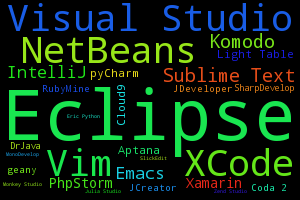
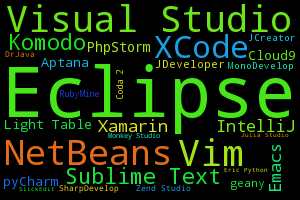
2 decimals

diff --git a/IDE.html b/IDE.html
@@ -134,56 +134,63 @@ country["FR"]="France"
 function refreshTop() {        
 cloud = "All.png"
 table = "<!-- begin section All-->\
-<td class=center>1</td><td class=center></td><td>Eclipse</td><td class=right>30.6 %</td><td class=\"right optCol\">-1.8 %</td></tr>\
-<tr><td class=center>2</td><td class=center></td><td>Visual Studio</td><td class=right>24.3 %</td><td class=\"right optCol\">-0.5 %</td></tr>\
-<tr><td class=center>3</td><td class=center></td><td>Vim</td><td class=right>8.3 %</td><td class=\"right optCol\">-0.0 %</td></tr>\
-<tr><td class=center>4</td><td class=center></td><td>NetBeans</td><td class=right>7.4 %</td><td class=\"right optCol\">-0.6 %</td></tr>\
-<tr><td class=center>5</td><td class=center></td><td>XCode</td><td class=right>7.0 %</td><td class=\"right optCol\">-0.1 %</td></tr>\
-<tr><td class=center>6</td><td class=center></td><td>Sublime Text</td><td class=right>4.7 %</td><td class=\"right optCol\">+0.4 %</td></tr>\
-<tr><td class=center>7</td><td class=center></td><td>Komodo</td><td class=right>3.8 %</td><td class=\"right optCol\">+0.3 %</td></tr>\
-<tr><td class=center>8</td><td class=center><image src=Up.png></td><td>IntelliJ</td><td class=right>3.2 %</td><td class=\"right optCol\">+0.7 %</td></tr>\
-<tr><td class=center>9</td><td class=center><image src=Down.png></td><td>Emacs</td><td class=right>2.3 %</td><td class=\"right optCol\">-0.3 %</td></tr>\
-<tr><td class=center>10</td><td class=center><image src=Up.png></td><td>Xamarin</td><td class=right>1.9 %</td><td class=\"right optCol\">+0.9 %</td></tr>\
-<tr><td class=center>11</td><td class=center><image src=Up.png></td><td>PhpStorm</td><td class=right>1.4 %</td><td class=\"right optCol\">+0.5 %</td></tr>\
-<tr><td class=center>12</td><td class=center><image src=Down.png><image src=Down.png></td><td>Light Table</td><td class=right>1.2 %</td><td class=\"right optCol\">+0.1 %</td></tr>\
-<tr><td class=center>13</td><td class=center><image src=Up.png></td><td>pyCharm</td><td class=right>0.9 %</td><td class=\"right optCol\">+0.4 %</td></tr>\
-<tr><td class=center>14</td><td class=center><image src=Up.png></td><td>Cloud9</td><td class=right>0.9 %</td><td class=\"right optCol\">+0.4 %</td></tr>\
-<tr><td class=center>15</td><td class=center><image src=Down.png><image src=Down.png></td><td>Aptana</td><td class=right>0.6 %</td><td class=\"right optCol\">-0.2 %</td></tr>\
-<tr><td class=center>16</td><td class=center></td><td>JDeveloper</td><td class=right>0.4 %</td><td class=\"right optCol\">-0.1 %</td></tr>\
-<tr><td class=center>17</td><td class=center></td><td>geany</td><td class=right>0.4 %</td><td class=\"right optCol\">-0.0 %</td></tr>\
-<tr><td class=center>18</td><td class=center></td><td>JCreator</td><td class=right>0.2 %</td><td class=\"right optCol\">-0.1 %</td></tr>\
-<tr><td class=center>19</td><td class=center></td><td>RubyMine</td><td class=right>0.2 %</td><td class=\"right optCol\">-0.0 %</td></tr>\
-<tr><td class=center>20</td><td class=center></td><td>Coda 2</td><td class=right>0.1 %</td><td class=\"right optCol\">-0.1 %</td></tr>\
-<tr><td class=center>21</td><td class=center></td><td>SharpDevelop</td><td class=right>0.1 %</td><td class=\"right optCol\">-0.0 %</td>\
+<td class=center>1</td><td class=center></td><td>Eclipse</td><td class=right>30.39 %</td><td class=\"right optCol\">-1.7 %</td></tr>\
+<tr><td class=center>2</td><td class=center></td><td>Visual Studio</td><td class=right>24.09 %</td><td class=\"right optCol\">-0.4 %</td></tr>\
+<tr><td class=center>3</td><td class=center></td><td>Vim</td><td class=right>8.29 %</td><td class=\"right optCol\">+0.1 %</td></tr>\
+<tr><td class=center>4</td><td class=center></td><td>NetBeans</td><td class=right>7.33 %</td><td class=\"right optCol\">-0.5 %</td></tr>\
+<tr><td class=center>5</td><td class=center></td><td>XCode</td><td class=right>6.92 %</td><td class=\"right optCol\">-0.1 %</td></tr>\
+<tr><td class=center>6</td><td class=center></td><td>Sublime Text</td><td class=right>4.71 %</td><td class=\"right optCol\">+0.4 %</td></tr>\
+<tr><td class=center>7</td><td class=center></td><td>Komodo</td><td class=right>3.76 %</td><td class=\"right optCol\">+0.3 %</td></tr>\
+<tr><td class=center>8</td><td class=center><image src=Up.png></td><td>IntelliJ</td><td class=right>3.14 %</td><td class=\"right optCol\">+0.7 %</td></tr>\
+<tr><td class=center>9</td><td class=center><image src=Down.png></td><td>Emacs</td><td class=right>2.33 %</td><td class=\"right optCol\">-0.3 %</td></tr>\
+<tr><td class=center>10</td><td class=center><image src=Up.png></td><td>Xamarin</td><td class=right>1.87 %</td><td class=\"right optCol\">+0.9 %</td></tr>\
+<tr><td class=center>11</td><td class=center><image src=Up.png></td><td>PhpStorm</td><td class=right>1.37 %</td><td class=\"right optCol\">+0.5 %</td></tr>\
+<tr><td class=center>12</td><td class=center><image src=Down.png><image src=Down.png></td><td>Light Table</td><td class=right>1.23 %</td><td class=\"right optCol\">+0.1 %</td></tr>\
+<tr><td class=center>13</td><td class=center><image src=Up.png></td><td>pyCharm</td><td class=right>0.93 %</td><td class=\"right optCol\">+0.3 %</td></tr>\
+<tr><td class=center>14</td><td class=center><image src=Up.png></td><td>Cloud9</td><td class=right>0.86 %</td><td class=\"right optCol\">+0.4 %</td></tr>\
+<tr><td class=center>15</td><td class=center><image src=Down.png><image src=Down.png></td><td>Aptana</td><td class=right>0.64 %</td><td class=\"right optCol\">-0.2 %</td></tr>\
+<tr><td class=center>16</td><td class=center></td><td>JDeveloper</td><td class=right>0.39 %</td><td class=\"right optCol\">-0.0 %</td></tr>\
+<tr><td class=center>17</td><td class=center></td><td>geany</td><td class=right>0.37 %</td><td class=\"right optCol\">-0.0 %</td></tr>\
+<tr><td class=center>18</td><td class=center></td><td>MonoDevelop</td><td class=right>0.3 %</td><td class=\"right optCol\">-0.0 %</td></tr>\
+<tr><td class=center>19</td><td class=center></td><td>JCreator</td><td class=right>0.21 %</td><td class=\"right optCol\">-0.0 %</td></tr>\
+<tr><td class=center>20</td><td class=center></td><td>RubyMine</td><td class=right>0.21 %</td><td class=\"right optCol\">-0.0 %</td></tr>\
+<tr><td class=center>21</td><td class=center><image src=Up.png></td><td>Coda 2</td><td class=right>0.14 %</td><td class=\"right optCol\">-0.1 %</td></tr>\
+<tr><td class=center>22</td><td class=center><image src=Down.png></td><td>Zend Studio</td><td class=right>0.13 %</td><td class=\"right optCol\">-0.1 %</td></tr>\
+<tr><td class=center>23</td><td class=center></td><td>SharpDevelop</td><td class=right>0.12 %</td><td class=\"right optCol\">-0.0 %</td></tr>\
+<tr><td class=center>24</td><td class=center><image src=Up.png><image src=Up.png></td><td>DrJava</td><td class=right>0.06 %</td><td class=\"right optCol\">-0.0 %</td></tr>\
+<tr><td class=center>25</td><td class=center><image src=Down.png></td><td>Monkey Studio</td><td class=right>0.06 %</td><td class=\"right optCol\">-0.0 %</td></tr>\
+<tr><td class=center>26</td><td class=center><image src=Up.png><image src=Up.png></td><td>Julia Studio</td><td class=right>0.06 %</td><td class=\"right optCol\">-0.0 %</td></tr>\
+<tr><td class=center>27</td><td class=center></td><td>Eric Python</td><td class=right>0.05 %</td><td class=\"right optCol\">-0.0 %</td></tr>\
+<tr><td class=center>28</td><td class=center><image src=Down.png><image src=Down.png><image src=Down.png></td><td>SlickEdit</td><td class=right>0.05 %</td><td class=\"right optCol\">-0.0 %</td>\
 <!-- end section All-->\
 ";
 if (getUrlParameter('country') == "US") {
 cloud = "US.png"
 table = "<!-- begin section US-->\
-<td class=center>1</td><td class=center></td><td>Eclipse</td><td class=right>29.3 %</td><td class=\"right optCol\">-1.0 %</td></tr>\
-<tr><td class=center>2</td><td class=center></td><td>Visual Studio</td><td class=right>22.0 %</td><td class=\"right optCol\">-0.7 %</td></tr>\
-<tr><td class=center>3</td><td class=center></td><td>Vim</td><td class=right>9.2 %</td><td class=\"right optCol\">-0.1 %</td></tr>\
-<tr><td class=center>4</td><td class=center></td><td>XCode</td><td class=right>8.6 %</td><td class=\"right optCol\">+0.3 %</td></tr>\
-<tr><td class=center>5</td><td class=center></td><td>Sublime Text</td><td class=right>5.1 %</td><td class=\"right optCol\">+0.2 %</td></tr>\
-<tr><td class=center>6</td><td class=center></td><td>Komodo</td><td class=right>4.4 %</td><td class=\"right optCol\">-0.3 %</td></tr>\
-<tr><td class=center>7</td><td class=center><image src=Up.png><image src=Up.png></td><td>IntelliJ</td><td class=right>4.0 %</td><td class=\"right optCol\">+0.9 %</td></tr>\
-<tr><td class=center>8</td><td class=center><image src=Down.png></td><td>Emacs</td><td class=right>3.6 %</td><td class=\"right optCol\">-0.3 %</td></tr>\
-<tr><td class=center>9</td><td class=center><image src=Down.png></td><td>NetBeans</td><td class=right>3.5 %</td><td class=\"right optCol\">-0.5 %</td></tr>\
-<tr><td class=center>10</td><td class=center></td><td>Light Table</td><td class=right>2.9 %</td><td class=\"right optCol\">-0.1 %</td></tr>\
-<tr><td class=center>11</td><td class=center></td><td>Xamarin</td><td class=right>1.9 %</td><td class=\"right optCol\">+1.0 %</td></tr>\
-<tr><td class=center>12</td><td class=center><image src=Up.png><image src=Up.png></td><td>pyCharm</td><td class=right>1.3 %</td><td class=\"right optCol\">+0.6 %</td></tr>\
-<tr><td class=center>13</td><td class=center><image src=Down.png></td><td>Cloud9</td><td class=right>1.0 %</td><td class=\"right optCol\">-0.0 %</td></tr>\
-<tr><td class=center>14</td><td class=center><image src=Up.png></td><td>PhpStorm</td><td class=right>0.8 %</td><td class=\"right optCol\">+0.2 %</td></tr>\
-<tr><td class=center>15</td><td class=center><image src=Down.png><image src=Down.png></td><td>Aptana</td><td class=right>0.5 %</td><td class=\"right optCol\">-0.2 %</td></tr>\
-<tr><td class=center>16</td><td class=center></td><td>JDeveloper</td><td class=right>0.4 %</td><td class=\"right optCol\">-0.0 %</td></tr>\
-<tr><td class=center>17</td><td class=center></td><td>RubyMine</td><td class=right>0.3 %</td><td class=\"right optCol\">-0.0 %</td></tr>\
-<tr><td class=center>18</td><td class=center><image src=Up.png><image src=Up.png><image src=Up.png></td><td>MonoDevelop</td><td class=right>0.2 %</td><td class=\"right optCol\">+0.1 %</td></tr>\
-<tr><td class=center>19</td><td class=center><image src=Down.png></td><td>geany</td><td class=right>0.2 %</td><td class=\"right optCol\">-0.0 %</td></tr>\
-<tr><td class=center>20</td><td class=center><image src=Down.png></td><td>JCreator</td><td class=right>0.2 %</td><td class=\"right optCol\">-0.0 %</td></tr>\
-<tr><td class=center>21</td><td class=center><image src=Down.png></td><td>Coda 2</td><td class=right>0.1 %</td><td class=\"right optCol\">-0.1 %</td></tr>\
-<tr><td class=center>22</td><td class=center></td><td>DrJava</td><td class=right>0.1 %</td><td class=\"right optCol\">-0.0 %</td></tr>\
-<tr><td class=center>23</td><td class=center><image src=Up.png></td><td>SlickEdit</td><td class=right>0.1 %</td><td class=\"right optCol\">-0.0 %</td></tr>\
-<tr><td class=center>24</td><td class=center><image src=Down.png></td><td>Monkey Studio</td><td class=right>0.0 %</td><td class=\"right optCol\">-0.1 %</td>\
+<td class=center>1</td><td class=center></td><td>Eclipse</td><td class=right>29.26 %</td><td class=\"right optCol\">-0.9 %</td></tr>\
+<tr><td class=center>2</td><td class=center></td><td>Visual Studio</td><td class=right>21.97 %</td><td class=\"right optCol\">-0.6 %</td></tr>\
+<tr><td class=center>3</td><td class=center></td><td>Vim</td><td class=right>9.19 %</td><td class=\"right optCol\">-0.0 %</td></tr>\
+<tr><td class=center>4</td><td class=center></td><td>XCode</td><td class=right>8.61 %</td><td class=\"right optCol\">+0.4 %</td></tr>\
+<tr><td class=center>5</td><td class=center></td><td>Sublime Text</td><td class=right>5.06 %</td><td class=\"right optCol\">+0.2 %</td></tr>\
+<tr><td class=center>6</td><td class=center></td><td>Komodo</td><td class=right>4.42 %</td><td class=\"right optCol\">-0.3 %</td></tr>\
+<tr><td class=center>7</td><td class=center><image src=Up.png><image src=Up.png></td><td>IntelliJ</td><td class=right>4.0 %</td><td class=\"right optCol\">+1.0 %</td></tr>\
+<tr><td class=center>8</td><td class=center><image src=Down.png></td><td>Emacs</td><td class=right>3.59 %</td><td class=\"right optCol\">-0.2 %</td></tr>\
+<tr><td class=center>9</td><td class=center><image src=Down.png></td><td>NetBeans</td><td class=right>3.48 %</td><td class=\"right optCol\">-0.5 %</td></tr>\
+<tr><td class=center>10</td><td class=center></td><td>Light Table</td><td class=right>2.93 %</td><td class=\"right optCol\">-0.1 %</td></tr>\
+<tr><td class=center>11</td><td class=center></td><td>Xamarin</td><td class=right>1.93 %</td><td class=\"right optCol\">+1.0 %</td></tr>\
+<tr><td class=center>12</td><td class=center><image src=Up.png><image src=Up.png></td><td>pyCharm</td><td class=right>1.27 %</td><td class=\"right optCol\">+0.6 %</td></tr>\
+<tr><td class=center>13</td><td class=center><image src=Down.png></td><td>Cloud9</td><td class=right>1.04 %</td><td class=\"right optCol\">-0.0 %</td></tr>\
+<tr><td class=center>14</td><td class=center><image src=Up.png></td><td>PhpStorm</td><td class=right>0.81 %</td><td class=\"right optCol\">+0.2 %</td></tr>\
+<tr><td class=center>15</td><td class=center><image src=Down.png><image src=Down.png></td><td>Aptana</td><td class=right>0.52 %</td><td class=\"right optCol\">-0.2 %</td></tr>\
+<tr><td class=center>16</td><td class=center></td><td>JDeveloper</td><td class=right>0.41 %</td><td class=\"right optCol\">-0.0 %</td></tr>\
+<tr><td class=center>17</td><td class=center></td><td>RubyMine</td><td class=right>0.34 %</td><td class=\"right optCol\">-0.0 %</td></tr>\
+<tr><td class=center>18</td><td class=center></td><td>MonoDevelop</td><td class=right>0.29 %</td><td class=\"right optCol\">-0.0 %</td></tr>\
+<tr><td class=center>19</td><td class=center></td><td>geany</td><td class=right>0.22 %</td><td class=\"right optCol\">-0.0 %</td></tr>\
+<tr><td class=center>20</td><td class=center></td><td>JCreator</td><td class=right>0.22 %</td><td class=\"right optCol\">-0.0 %</td></tr>\
+<tr><td class=center>21</td><td class=center></td><td>Coda 2</td><td class=right>0.14 %</td><td class=\"right optCol\">-0.1 %</td></tr>\
+<tr><td class=center>22</td><td class=center></td><td>DrJava</td><td class=right>0.14 %</td><td class=\"right optCol\">-0.0 %</td></tr>\
+<tr><td class=center>23</td><td class=center><image src=Up.png></td><td>SlickEdit</td><td class=right>0.08 %</td><td class=\"right optCol\">-0.1 %</td></tr>\
+<tr><td class=center>24</td><td class=center><image src=Down.png></td><td>Monkey Studio</td><td class=right>0.07 %</td><td class=\"right optCol\">-0.1 %</td>\
 <!-- end section US-->\
 ";
 }
@@ -443,8 +450,8 @@ document.getElementById("cloud").src="IDE/"+cloud;
 
 <script>
 $.ajaxSetup({async:false});
-if (getUrlParameter('country') == "") {$.getScript("IDE/All.js?t=axbAll769Allbxa")}
-if (getUrlParameter('country') == "US") {$.getScript("IDE/US.js?t=axbUS8741USbxa")}
+if (getUrlParameter('country') == "") {$.getScript("IDE/All.js?t=axbAll4875Allbxa")}
+if (getUrlParameter('country') == "US") {$.getScript("IDE/US.js?t=axbUS8461USbxa")}
 if (getUrlParameter('country') == "DE") {$.getScript("IDE/DE.js?t=axbDE5123DEbxa")}
 if (getUrlParameter('country') == "IN") {$.getScript("IDE/IN.js?t=axbIN8342INbxa")}
 if (getUrlParameter('country') == "GB") {$.getScript("IDE/GB.js?t=axbGB1860GBbxa")}

diff --git a/IDE/All.js b/IDE/All.js
@@ -1,7 +1,7 @@
     // data
 // begin Top All
 TopPlusMinus = [2,2,20]
-PlusMinus = [-0.133366666667,0.0472833333333]
+PlusMinus = [-0.130216666667,0.0469666666667]
 // end Top All
 graphData = [
 ['Date', // begin section languages
@@ -24,25 +24,25 @@ graphData = [
 [new Date(2008,1,1), 0.258,0.445,0.011,0.089,0.061,0.015,0.021,0.051,0.01,0.0,0.0,0.002,0.013,0.0,0.002,0.0,0.011,0.0,0.005,0.0,0.0,0.0,0.0,0.006,0.0,0.0,0.0,0.0],
 [new Date(2008,5,1), 0.274,0.424,0.011,0.098,0.059,0.017,0.024,0.048,0.009,0.0,0.0,0.002,0.013,0.0,0.002,0.0,0.01,0.0,0.004,0.0,0.0,0.0,0.0,0.006,0.0,0.0,0.0,0.0],
 [new Date(2008,9,1), 0.268,0.426,0.01,0.097,0.062,0.019,0.028,0.047,0.009,0.0,0.0,0.002,0.013,0.0,0.002,0.0,0.009,0.0,0.004,0.0,0.0,0.0,0.0,0.006,0.0,0.0,0.0,0.0],
-[new Date(2009,1,1), 0.264,0.425,0.009,0.1,0.062,0.021,0.025,0.046,0.009,0.0,0.0,0.002,0.014,0.0,0.003,0.0,0.009,0.0,0.004,0.0,0.0,0.0,0.0,0.007,0.0,0.0,0.0,0.0],
-[new Date(2009,5,1), 0.259,0.423,0.009,0.102,0.063,0.025,0.031,0.043,0.008,0.0,0.0,0.002,0.015,0.0,0.003,0.0,0.008,0.0,0.004,0.0,0.0,0.001,0.0,0.006,0.0,0.0,0.0,0.0],
-[new Date(2009,9,1), 0.25,0.435,0.009,0.1,0.063,0.029,0.029,0.041,0.008,0.0,0.0,0.002,0.014,0.0,0.003,0.0,0.007,0.0,0.004,0.0,0.0,0.001,0.0,0.006,0.0,0.0,0.0,0.0],
-[new Date(2010,1,1), 0.251,0.439,0.008,0.096,0.063,0.031,0.026,0.039,0.009,0.0,0.0,0.002,0.014,0.0,0.003,0.0,0.007,0.0,0.003,0.0,0.0,0.001,0.0,0.007,0.0,0.0,0.0,0.0],
-[new Date(2010,5,1), 0.252,0.457,0.007,0.091,0.06,0.031,0.027,0.034,0.008,0.0,0.0,0.001,0.011,0.0,0.003,0.0,0.006,0.0,0.003,0.001,0.0,0.001,0.0,0.006,0.0,0.0,0.0,0.0],
-[new Date(2010,9,1), 0.228,0.508,0.006,0.078,0.056,0.037,0.023,0.029,0.007,0.0,0.001,0.001,0.01,0.0,0.002,0.0,0.005,0.001,0.003,0.001,0.0,0.001,0.0,0.005,0.0,0.0,0.0,0.0],
-[new Date(2011,1,1), 0.236,0.446,0.006,0.089,0.066,0.05,0.027,0.034,0.009,0.0,0.001,0.002,0.011,0.001,0.003,0.0,0.006,0.001,0.003,0.001,0.0,0.001,0.0,0.007,0.0,0.0,0.0,0.0],
-[new Date(2011,5,1), 0.241,0.404,0.007,0.094,0.073,0.065,0.031,0.035,0.011,0.0,0.002,0.002,0.012,0.001,0.004,0.0,0.005,0.001,0.002,0.001,0.0,0.002,0.0,0.007,0.0,0.0,0.0,0.0],
-[new Date(2011,9,1), 0.238,0.391,0.007,0.093,0.077,0.077,0.032,0.033,0.011,0.001,0.002,0.003,0.013,0.002,0.004,0.0,0.005,0.001,0.002,0.003,0.0,0.002,0.0,0.007,0.0,0.0,0.0,0.0],
-[new Date(2012,1,1), 0.23,0.379,0.006,0.089,0.079,0.083,0.042,0.032,0.012,0.001,0.003,0.003,0.012,0.002,0.004,0.0,0.005,0.001,0.002,0.007,0.0,0.001,0.0,0.008,0.0,0.0,0.0,0.0],
-[new Date(2012,5,1), 0.227,0.383,0.006,0.088,0.078,0.083,0.035,0.031,0.013,0.001,0.004,0.003,0.012,0.002,0.004,0.0,0.004,0.002,0.002,0.014,0.0,0.002,0.0,0.008,0.0,0.0,0.0,0.0],
-[new Date(2012,9,1), 0.23,0.373,0.005,0.085,0.08,0.084,0.032,0.03,0.013,0.001,0.005,0.003,0.012,0.002,0.004,0.0,0.004,0.003,0.002,0.021,0.0,0.002,0.0,0.009,0.0,0.0,0.0,0.0],
-[new Date(2013,1,1), 0.243,0.355,0.005,0.083,0.081,0.077,0.034,0.029,0.016,0.002,0.006,0.003,0.011,0.003,0.004,0.0,0.004,0.003,0.002,0.029,0.0,0.002,0.0,0.01,0.0,0.0,0.0,0.0],
-[new Date(2013,5,1), 0.241,0.34,0.005,0.083,0.083,0.071,0.039,0.029,0.02,0.005,0.007,0.003,0.011,0.003,0.004,0.0,0.003,0.002,0.002,0.035,0.0,0.002,0.0,0.01,0.0,0.0,0.0,0.0],
-[new Date(2013,9,1), 0.241,0.328,0.005,0.081,0.087,0.072,0.037,0.027,0.022,0.008,0.008,0.004,0.01,0.004,0.004,0.0,0.003,0.002,0.002,0.043,0.0,0.002,0.0,0.009,0.0,0.0,0.0,0.0],
-[new Date(2014,1,1), 0.247,0.318,0.005,0.08,0.086,0.073,0.036,0.026,0.024,0.01,0.01,0.005,0.009,0.005,0.004,0.0,0.003,0.002,0.002,0.044,0.0,0.002,0.0,0.011,0.0,0.0,0.0,0.0],
-[new Date(2014,5,1), 0.238,0.33,0.004,0.077,0.083,0.069,0.036,0.025,0.027,0.013,0.011,0.006,0.008,0.006,0.004,0.0,0.002,0.002,0.001,0.045,0.0,0.002,0.0,0.011,0.0,0.0,0.0,0.0],
-[new Date(2014,9,1), 0.236,0.325,0.004,0.076,0.084,0.07,0.037,0.023,0.028,0.016,0.012,0.007,0.007,0.007,0.004,0.0,0.002,0.002,0.001,0.046,0.0,0.002,0.0,0.01,0.0,0.0,0.0,0.0],
-[new Date(2015,1,1), 0.243,0.306,0.004,0.074,0.084,0.07,0.038,0.023,0.032,0.019,0.014,0.009,0.006,0.009,0.004,0.0,0.002,0.001,0.001,0.047,0.0,0.002,0.0,0.012,0.0,0.0,0.0,0.0]
+[new Date(2009,1,1), 0.263,0.424,0.009,0.1,0.062,0.021,0.025,0.046,0.009,0.0,0.0,0.002,0.014,0.0,0.003,0.001,0.009,0.0,0.004,0.0,0.002,0.0,0.0,0.007,0.0,0.0,0.0,0.0],
+[new Date(2009,5,1), 0.257,0.42,0.009,0.101,0.062,0.025,0.03,0.043,0.008,0.0,0.0,0.002,0.015,0.0,0.003,0.002,0.008,0.0,0.004,0.0,0.005,0.001,0.001,0.006,0.0,0.0,0.0,0.0],
+[new Date(2009,9,1), 0.247,0.43,0.009,0.099,0.062,0.029,0.029,0.04,0.008,0.0,0.0,0.002,0.014,0.0,0.003,0.003,0.007,0.0,0.004,0.0,0.008,0.001,0.001,0.006,0.0,0.0,0.0,0.0],
+[new Date(2010,1,1), 0.248,0.434,0.008,0.095,0.062,0.03,0.026,0.038,0.009,0.0,0.0,0.002,0.014,0.0,0.003,0.003,0.007,0.0,0.003,0.0,0.008,0.001,0.001,0.007,0.0,0.0,0.0,0.0],
+[new Date(2010,5,1), 0.249,0.452,0.007,0.09,0.06,0.03,0.027,0.034,0.008,0.0,0.0,0.001,0.011,0.0,0.003,0.003,0.006,0.0,0.003,0.001,0.006,0.001,0.001,0.006,0.0,0.0,0.0,0.001],
+[new Date(2010,9,1), 0.225,0.504,0.006,0.078,0.056,0.036,0.023,0.029,0.007,0.0,0.001,0.001,0.01,0.0,0.002,0.002,0.005,0.001,0.003,0.001,0.004,0.001,0.001,0.005,0.0,0.0,0.0,0.001],
+[new Date(2011,1,1), 0.233,0.441,0.006,0.088,0.066,0.05,0.027,0.033,0.009,0.0,0.001,0.002,0.011,0.001,0.003,0.003,0.006,0.001,0.003,0.001,0.005,0.001,0.001,0.007,0.001,0.001,0.001,0.001],
+[new Date(2011,5,1), 0.239,0.4,0.007,0.093,0.072,0.064,0.031,0.034,0.01,0.0,0.002,0.002,0.012,0.001,0.004,0.003,0.005,0.001,0.002,0.001,0.005,0.002,0.001,0.007,0.001,0.001,0.001,0.001],
+[new Date(2011,9,1), 0.235,0.387,0.007,0.092,0.076,0.077,0.032,0.033,0.011,0.001,0.002,0.003,0.012,0.002,0.004,0.003,0.005,0.001,0.002,0.003,0.004,0.002,0.001,0.007,0.0,0.0,0.001,0.001],
+[new Date(2012,1,1), 0.227,0.375,0.006,0.088,0.078,0.082,0.041,0.032,0.012,0.001,0.003,0.003,0.012,0.002,0.004,0.003,0.005,0.001,0.002,0.007,0.004,0.001,0.001,0.008,0.001,0.0,0.001,0.001],
+[new Date(2012,5,1), 0.225,0.379,0.006,0.087,0.077,0.082,0.034,0.031,0.012,0.001,0.004,0.003,0.012,0.002,0.004,0.003,0.004,0.002,0.002,0.013,0.004,0.002,0.001,0.008,0.0,0.001,0.001,0.001],
+[new Date(2012,9,1), 0.228,0.369,0.005,0.084,0.079,0.083,0.031,0.03,0.013,0.001,0.005,0.003,0.012,0.002,0.004,0.003,0.004,0.003,0.002,0.021,0.003,0.002,0.001,0.009,0.001,0.001,0.001,0.001],
+[new Date(2013,1,1), 0.24,0.352,0.005,0.083,0.08,0.077,0.033,0.029,0.016,0.002,0.006,0.003,0.011,0.003,0.004,0.003,0.004,0.003,0.002,0.028,0.003,0.002,0.001,0.01,0.001,0.001,0.001,0.001],
+[new Date(2013,5,1), 0.238,0.337,0.005,0.083,0.082,0.07,0.039,0.028,0.02,0.005,0.007,0.003,0.011,0.003,0.004,0.004,0.003,0.002,0.002,0.035,0.003,0.002,0.001,0.01,0.001,0.001,0.001,0.001],
+[new Date(2013,9,1), 0.239,0.325,0.005,0.081,0.086,0.071,0.037,0.027,0.022,0.008,0.008,0.004,0.01,0.004,0.004,0.003,0.003,0.002,0.002,0.042,0.002,0.002,0.001,0.009,0.0,0.0,0.001,0.001],
+[new Date(2014,1,1), 0.245,0.315,0.005,0.079,0.085,0.072,0.035,0.026,0.024,0.01,0.01,0.005,0.009,0.005,0.004,0.003,0.003,0.002,0.001,0.044,0.002,0.002,0.001,0.011,0.001,0.001,0.001,0.001],
+[new Date(2014,5,1), 0.236,0.327,0.004,0.076,0.083,0.068,0.036,0.024,0.027,0.013,0.011,0.006,0.008,0.006,0.004,0.003,0.002,0.002,0.001,0.044,0.002,0.002,0.001,0.011,0.0,0.001,0.001,0.001],
+[new Date(2014,9,1), 0.234,0.322,0.004,0.075,0.083,0.07,0.036,0.023,0.028,0.016,0.012,0.007,0.007,0.007,0.004,0.003,0.002,0.002,0.001,0.046,0.001,0.002,0.001,0.01,0.001,0.001,0.001,0.001],
+[new Date(2015,1,1), 0.241,0.304,0.004,0.073,0.083,0.069,0.038,0.023,0.031,0.019,0.014,0.009,0.006,0.009,0.004,0.003,0.002,0.001,0.001,0.047,0.001,0.002,0.001,0.012,0.001,0.001,0.001,0.0]
 // end section All
         ];
 

diff --git a/IDE/US.js b/IDE/US.js
@@ -1,7 +1,7 @@
     // data
 // begin Top US
 TopPlusMinus = [2,2,20]
-PlusMinus = [-0.140383333333,0.0506]
+PlusMinus = [-0.140683333333,0.05055]
 // end Top US
 graphData = [
 ['Date', // begin section languages
@@ -30,18 +30,18 @@ graphData = [
 [new Date(2010,1,1), 0.255,0.433,0.005,0.066,0.069,0.041,0.032,0.051,0.012,0.0,0.0,0.0,0.011,0.0,0.002,0.0,0.005,0.0,0.001,0.0,0.0,0.0,0.0,0.017,0.0,0.0,0.0,0.0],
 [new Date(2010,5,1), 0.252,0.455,0.006,0.059,0.065,0.038,0.039,0.043,0.011,0.0,0.0,0.001,0.009,0.0,0.002,0.0,0.004,0.0,0.002,0.0,0.0,0.0,0.0,0.014,0.0,0.0,0.0,0.0],
 [new Date(2010,9,1), 0.227,0.513,0.004,0.052,0.06,0.038,0.03,0.04,0.009,0.0,0.0,0.002,0.008,0.0,0.002,0.0,0.004,0.0,0.001,0.0,0.0,0.0,0.0,0.011,0.0,0.0,0.0,0.0],
-[new Date(2011,1,1), 0.229,0.465,0.006,0.057,0.07,0.047,0.033,0.045,0.011,0.0,0.0,0.003,0.01,0.0,0.003,0.0,0.004,0.0,0.0,0.001,0.0,0.001,0.0,0.017,0.0,0.0,0.0,0.0],
-[new Date(2011,5,1), 0.232,0.406,0.007,0.05,0.079,0.077,0.046,0.046,0.014,0.0,0.001,0.003,0.01,0.002,0.003,0.0,0.003,0.0,0.0,0.002,0.0,0.002,0.0,0.018,0.0,0.0,0.0,0.0],
-[new Date(2011,9,1), 0.237,0.368,0.007,0.05,0.088,0.093,0.045,0.048,0.015,0.0,0.002,0.004,0.011,0.002,0.003,0.0,0.003,0.0,0.0,0.004,0.0,0.003,0.0,0.018,0.0,0.0,0.0,0.0],
-[new Date(2012,1,1), 0.222,0.37,0.006,0.047,0.089,0.098,0.044,0.046,0.015,0.0,0.002,0.004,0.011,0.002,0.003,0.0,0.003,0.0,0.0,0.009,0.0,0.003,0.0,0.023,0.0,0.0,0.0,0.0],
-[new Date(2012,5,1), 0.208,0.402,0.005,0.042,0.085,0.094,0.043,0.039,0.015,0.001,0.002,0.004,0.01,0.002,0.002,0.0,0.002,0.002,0.0,0.016,0.0,0.003,0.0,0.022,0.0,0.0,0.0,0.0],
-[new Date(2012,9,1), 0.216,0.386,0.005,0.038,0.089,0.096,0.037,0.038,0.016,0.002,0.002,0.004,0.01,0.003,0.002,0.0,0.002,0.004,0.0,0.025,0.0,0.003,0.0,0.021,0.0,0.0,0.0,0.0],
-[new Date(2013,1,1), 0.231,0.336,0.006,0.041,0.091,0.094,0.045,0.04,0.021,0.002,0.003,0.005,0.009,0.003,0.003,0.0,0.003,0.003,0.0,0.034,0.0,0.003,0.0,0.027,0.0,0.0,0.0,0.0],
-[new Date(2013,5,1), 0.225,0.324,0.006,0.04,0.093,0.083,0.055,0.041,0.026,0.006,0.004,0.005,0.008,0.004,0.003,0.0,0.002,0.003,0.0,0.042,0.0,0.004,0.0,0.027,0.0,0.0,0.0,0.0],
-[new Date(2013,9,1), 0.229,0.31,0.005,0.037,0.097,0.086,0.046,0.04,0.029,0.009,0.005,0.007,0.008,0.005,0.002,0.0,0.002,0.003,0.0,0.051,0.0,0.004,0.0,0.025,0.0,0.0,0.0,0.0],
-[new Date(2014,1,1), 0.23,0.3,0.005,0.038,0.096,0.087,0.043,0.039,0.031,0.011,0.006,0.009,0.008,0.007,0.002,0.001,0.002,0.002,0.0,0.051,0.0,0.004,0.0,0.029,0.0,0.0,0.0,0.0],
-[new Date(2014,5,1), 0.22,0.308,0.004,0.037,0.092,0.081,0.048,0.037,0.035,0.014,0.007,0.01,0.006,0.008,0.002,0.002,0.002,0.002,0.0,0.051,0.0,0.004,0.0,0.027,0.001,0.0,0.001,0.001],
+[new Date(2011,1,1), 0.229,0.465,0.006,0.056,0.07,0.047,0.033,0.045,0.011,0.0,0.0,0.003,0.01,0.0,0.003,0.001,0.004,0.0,0.0,0.001,0.001,0.001,0.0,0.016,0.0,0.0,0.0,0.0],
+[new Date(2011,5,1), 0.231,0.405,0.007,0.05,0.079,0.077,0.046,0.046,0.014,0.0,0.001,0.003,0.009,0.002,0.003,0.003,0.003,0.0,0.0,0.002,0.002,0.002,0.0,0.018,0.0,0.0,0.0,0.0],
+[new Date(2011,9,1), 0.236,0.366,0.007,0.049,0.087,0.093,0.045,0.048,0.015,0.0,0.002,0.004,0.011,0.002,0.003,0.003,0.003,0.0,0.0,0.004,0.002,0.003,0.0,0.018,0.0,0.0,0.0,0.0],
+[new Date(2012,1,1), 0.221,0.368,0.006,0.047,0.089,0.098,0.043,0.046,0.015,0.0,0.002,0.004,0.011,0.002,0.003,0.003,0.003,0.0,0.0,0.009,0.002,0.003,0.0,0.023,0.0,0.0,0.0,0.0],
+[new Date(2012,5,1), 0.207,0.399,0.005,0.042,0.085,0.094,0.042,0.039,0.015,0.001,0.002,0.004,0.01,0.002,0.002,0.003,0.002,0.002,0.0,0.016,0.002,0.003,0.001,0.022,0.0,0.0,0.0,0.0],
+[new Date(2012,9,1), 0.215,0.384,0.005,0.038,0.088,0.095,0.037,0.037,0.016,0.002,0.002,0.004,0.01,0.003,0.002,0.003,0.002,0.004,0.0,0.025,0.001,0.003,0.002,0.02,0.0,0.0,0.0,0.0],
+[new Date(2013,1,1), 0.229,0.333,0.006,0.041,0.09,0.093,0.044,0.04,0.021,0.002,0.003,0.005,0.009,0.003,0.003,0.003,0.003,0.003,0.0,0.034,0.001,0.003,0.002,0.027,0.0,0.0,0.0,0.0],
+[new Date(2013,5,1), 0.223,0.321,0.006,0.04,0.092,0.082,0.055,0.041,0.025,0.006,0.004,0.005,0.008,0.004,0.003,0.004,0.002,0.003,0.0,0.042,0.002,0.004,0.001,0.027,0.001,0.0,0.001,0.001],
+[new Date(2013,9,1), 0.228,0.307,0.005,0.037,0.097,0.086,0.046,0.039,0.029,0.009,0.005,0.007,0.008,0.005,0.002,0.003,0.002,0.003,0.0,0.05,0.001,0.004,0.001,0.025,0.001,0.0,0.001,0.001],
+[new Date(2014,1,1), 0.228,0.297,0.005,0.038,0.095,0.087,0.043,0.038,0.031,0.011,0.006,0.009,0.008,0.007,0.002,0.003,0.002,0.002,0.0,0.05,0.001,0.004,0.001,0.028,0.002,0.0,0.001,0.001],
+[new Date(2014,5,1), 0.22,0.308,0.004,0.037,0.091,0.081,0.048,0.037,0.035,0.014,0.007,0.01,0.006,0.008,0.002,0.003,0.002,0.002,0.0,0.051,0.0,0.004,0.0,0.027,0.001,0.0,0.001,0.001],
 [new Date(2014,9,1), 0.22,0.303,0.005,0.035,0.093,0.086,0.045,0.036,0.038,0.018,0.008,0.008,0.006,0.009,0.002,0.003,0.001,0.002,0.0,0.052,0.0,0.004,0.0,0.025,0.001,0.0,0.0,0.001],
-[new Date(2015,1,1), 0.22,0.293,0.004,0.035,0.092,0.086,0.044,0.036,0.04,0.019,0.008,0.01,0.005,0.013,0.002,0.002,0.002,0.001,0.0,0.051,0.0,0.003,0.0,0.029,0.001,0.0,0.0,0.001]
+[new Date(2015,1,1), 0.22,0.293,0.004,0.035,0.092,0.086,0.044,0.036,0.04,0.019,0.008,0.01,0.005,0.013,0.002,0.003,0.002,0.001,0.0,0.051,0.0,0.003,0.0,0.029,0.001,0.0,0.001,0.001]
 // end section US
         ];
